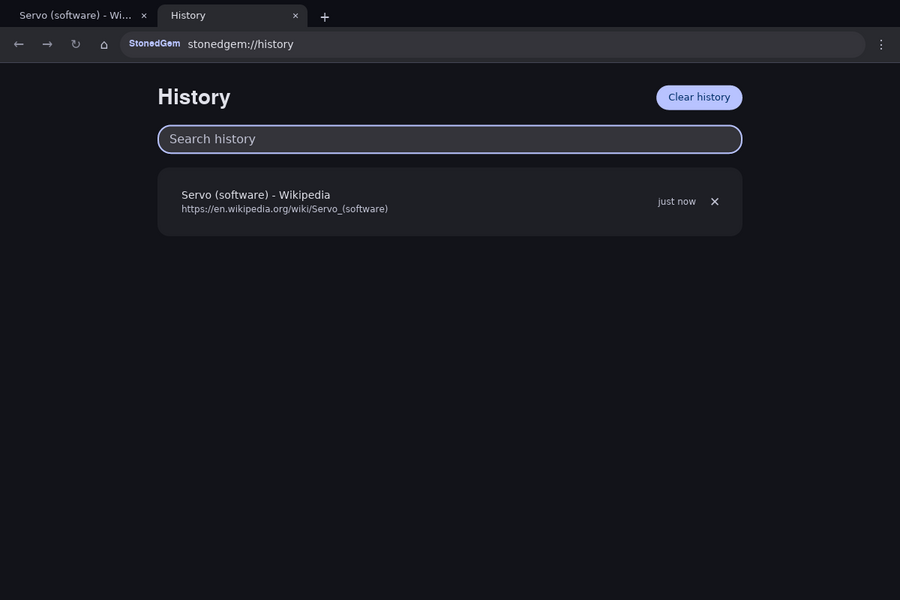
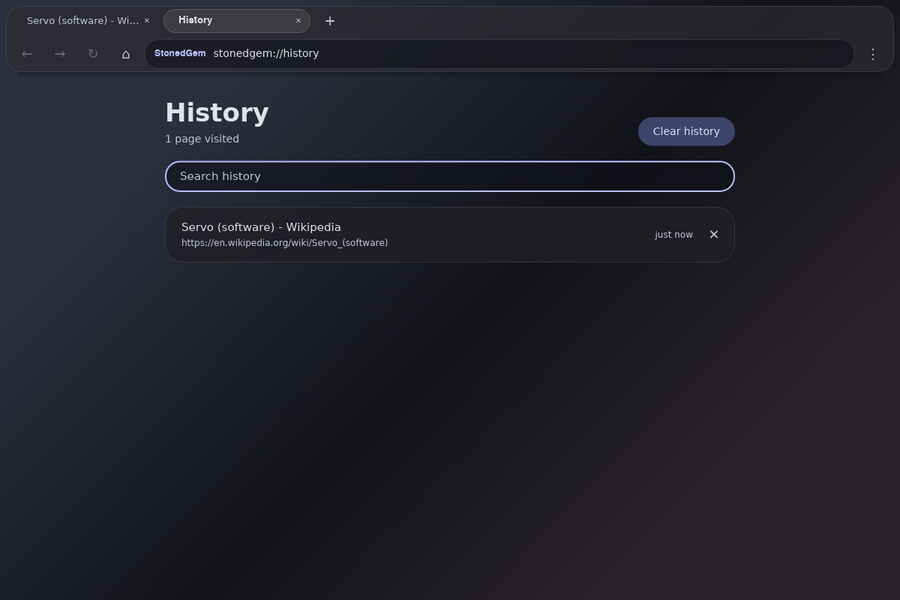
Window design pass and phase 5 done
The redesigned window checked under Xvfb on an optimised build: every page
in dark and light. Iced's CPU renderer repaints drop shadows over nearby
content when redrawing part of the window, so the panel's shadow is now a
gradient strip under it, and cards and the selected tab are raised by tone
and a light edge; popups keep their shadow. The check script now clicks
a link on a known page for the right-click/download step and the new
places of the controls. Focus: Ctrl+F takes focus off the address bar at
once, and the deferred focus no longer selects what's already typed.

Phase 5 marked done in MIGRATION.md; DESIGN.md notes the shadow rule;
screenshots updated (page, find, menu, History, Settings dark/light,
right-click menu, Downloads).

Claude-Session: https://claude.ai/code/session_01MJTKW6Ep4svEtEcpjWzyxg

Changed region(s): [[0.0, 0.0, 0.9956, 0.78], [0.7156, 0.39, 0.7778, 0.42]]

diff --git a/crates/stonedgem-chrome/src/ui.rs b/crates/stonedgem-chrome/src/ui.rs
@@ -84,25 +84,41 @@ fn glass(p: Palette, r: f32) -> container::Style {
     container::Style {
         background: Some(Background::Color(alpha(p.surface_high, if p.dark { 0.72 } else { 0.74 }))),
         border: Border { radius: radius(r), width: 1.0, color: highlight(p) },
-        shadow: shadow(10.0, 30.0, if p.dark { 0.30 } else { 0.12 }),
         ..Default::default()
     }
 }
 
+/// The panel's soft "contact shadow": a gradient strip in the gap under it.
+/// (A real drop shadow gets repainted over the panel by Iced's CPU renderer
+/// when it redraws part of the window.)
+fn contact_shadow(p: Palette) -> container::Style {
+    let g = Linear::new(std::f32::consts::PI)
+        .add_stop(0.0, alpha(Color::BLACK, if p.dark { 0.28 } else { 0.10 }))
+        .add_stop(1.0, alpha(Color::BLACK, 0.0));
+    container::Style {
+        background: Some(Background::Gradient(Gradient::Linear(g))),
+        border: Border { radius: Radius { top_left: 0.0, top_right: 0.0, bottom_right: 12.0, bottom_left: 12.0 }, ..Default::default() },
+        ..Default::default()
+    }
+}
+
+/// Softly raised: a lighter tone and a light edge. (No drop shadow: Iced's
+/// CPU renderer smears small shadows inside a row across the whole row.)
 fn raised(p: Palette, r: f32) -> container::Style {
     container::Style {
-        background: Some(Background::Color(p.surface_highest)),
-        border: Border { radius: radius(r), width: 1.0, color: highlight(p) },
-        shadow: shadow(3.0, 10.0, if p.dark { 0.28 } else { 0.10 }),
+        background: Some(Background::Color(if p.dark { mix(p.surface_highest, Color::WHITE, 0.04) } else { mix(p.surface_highest, Color::WHITE, 0.55) })),
+        border: Border { radius: radius(r), width: 1.0, color: if p.dark { alpha(Color::WHITE, 0.16) } else { alpha(p.outline_variant, 0.9) } },
         ..Default::default()
     }
 }
 
+/// Cards inside scrolling pages: raised by tone and a light edge only.
+/// (No shadow: Iced's CPU renderer doesn't clip shadows to the scroll
+/// area, so they would spill over the panel.)
 fn card_style(p: Palette) -> container::Style {
     container::Style {
         background: Some(Background::Color(alpha(p.surface_container, if p.dark { 0.82 } else { 0.86 }))),
         border: Border { radius: radius(24.0), width: 1.0, color: highlight(p) },
-        shadow: shadow(6.0, 22.0, if p.dark { 0.25 } else { 0.08 }),
         ..Default::default()
     }
 }
@@ -228,8 +244,13 @@ pub fn view(b: &Browser) -> Element<'_, Message> {
     if b.find.is_some() {
         panel = panel.push(find_bar(b));
     }
-    let panel = container(container(panel).padding(Padding { top: 0.0, right: 8.0, bottom: 0.0, left: 8.0 }).style(move |_: &Theme| glass(p, 22.0)))
-        .padding(PANEL_MARGIN);
+    let glass_panel = container(panel).padding(Padding { top: 0.0, right: 8.0, bottom: 0.0, left: 8.0 }).style(move |_: &Theme| glass(p, 22.0));
+    let under = container(container(space()).width(Length::Fill).height(PANEL_MARGIN).style(move |_: &Theme| contact_shadow(p)))
+        .padding(Padding { top: 0.0, right: 24.0, bottom: 0.0, left: 24.0 });
+    let panel = column![
+        container(glass_panel).padding(Padding { top: PANEL_MARGIN, right: PANEL_MARGIN, bottom: 0.0, left: PANEL_MARGIN }),
+        under
+    ];
 
     let main = column![panel, content(b)];
     let base = container(main).width(Length::Fill).height(Length::Fill).style(move |_: &Theme| backdrop(p));
@@ -670,7 +691,6 @@ fn settings(b: &Browser) -> Element<'_, Message> {
                     background: Some(Background::Color(if st == button::Status::Hovered { mix(c, Color::WHITE, 0.12) } else { c })),
                     text_color: Palette::new(hex, p.dark).on_primary,
                     border: Border { radius: radius(17.0), width: if chosen { 2.0 } else { 1.0 }, color: if chosen { p.on_surface } else { highlight(p) } },
-                    shadow: shadow(2.0, 6.0, 0.25),
                     ..Default::default()
                 }),
         );

diff --git a/docs/MIGRATION.md b/docs/MIGRATION.md
@@ -57,39 +57,26 @@ app opens a window, loads pages, routes every request through
 measure site compatibility on a fixed list of sites before going further;
 if it's too poor, WPE WebKit is evaluated against the same list.
 
-## Phase 5 — Iced chrome (window, menu, History, Bookmarks, Settings, Find ✅)
+## Phase 5 — Iced chrome ✅
 
-`stonedgem-chrome` builds `stonedgem-browser`, drawn entirely with Iced in
-OyNIx's Material 3 colours (`stonedgem-theme`, light or dark, six accents):
+`stonedgem-chrome` builds `stonedgem-browser` (and, run as `oynix-next`,
+**OyNIx Next**, with its own profile), drawn entirely with Iced to
+[DESIGN.md](DESIGN.md): Material 3 colour roles from `stonedgem-theme`, a
+floating translucent panel over a gradient backdrop, raised/inset touches,
+40 px targets, light and dark, six accents.
 
-- tabs, an address pill (`stonedgem-url`: addresses, searches, `!bangs`;
-  "Not secure" on plain http), back/forward/reload/home, a ☆ bookmark star,
-  the count of blocked requests and a ⋮ menu;
-- the page: Servo's frames by readback, with mouse, wheel and keys;
-- **History** (`stonedgem://history`, Ctrl+H): visits recorded by
-  `stonedgem-library`, searchable, removable, clearable;
-- **Bookmarks** (`stonedgem://bookmarks`, Ctrl+Shift+O, Ctrl+D to add);
-- **Settings** (`stonedgem://settings`, Ctrl+,): dark/light, accent colour,
-  search engine, home page, ad/tracker blocking and element hiding; saved
-  in the profile as `browser.json`;
-- **Find in page** (Ctrl+F): "3 of 58", ↑/↓, highlights cleared on close.
+- Tabs, address capsule (`stonedgem-url`), back/forward/reload/home, ☆,
+  blocked count, zoom badge, downloads button, ⋮ menu.
+- Pages: Servo frames by readback; mouse, wheel, keys; **right-click menu**
+  (links, images, selection); **zoom** (Ctrl+= / − / 0).
+- **History**, **Bookmarks**, **Downloads** (Servo has no downloads; the
+  window fetches them itself) and **Settings** pages, drawn with Iced.
+- **Find in page**; **tabs reopen on start**.
+- **oynix-next package**: `scripts/package-oynix-next.sh`, a .desktop
+  entry, and the *OyNIx Next* workflow (manual or `oynix-next-v*` tags).
 
-Checked under Xvfb with `crates/stonedgem-chrome/xvfb-check.sh`:
-screenshots of [the page](screenshots/browser-wikipedia.png),
-[find](screenshots/browser-find.png), [the menu](screenshots/browser-menu.png),
-[History](screenshots/browser-history.png),
-[Settings](screenshots/browser-settings.png) and
-[Settings, light](screenshots/browser-settings-light.png).
-
-Still to do in this phase: downloads (Servo's download support needs
-checking first), a context menu, zoom, restoring tabs on start, and the
-oynix-next package.
-
-
-`stonedgem-chrome`: window, tabs, address bar (using `stonedgem-url`),
-menus, settings and start page, drawing pages from the engine
-(readback first). Shipped as **oynix-next**, a preview alongside OyNIx,
-not a replacement.
+Checked under Xvfb with `crates/stonedgem-chrome/xvfb-check.sh`, which
+drives every page and takes the screenshots in [screenshots/](screenshots/).
 
 ## Phase 6 — extension runtime and Slint panels
 

diff --git a/docs/DESIGN.md b/docs/DESIGN.md
@@ -20,10 +20,18 @@ It borrows from four references and keeps what works on a desktop browser:
 - **Backdrop:** a linear gradient from the surface toward the primary (≈16 %)
   at the top-left and the tertiary (≈10 %) at the bottom-right.
 - **Glass panel:** surface-container-high at ≈72 % (dark) / 74 % (light),
-  1 px highlight edge (white 10 % dark / 70 % light), shadow 0 10 30 at 30 %.
-- **Raised (neumorphic):** surface-container-highest, highlight edge, shadow 0 3 10 at 25 %.
+  1 px highlight edge (white 10 % dark / 70 % light), and a soft contact
+  shadow in the gap below it.
+- **Raised (neumorphic):** a lighter tone than its surroundings and a light edge.
+
 - **Inset:** surface-container-lowest at 55 %, 1 px outline-variant edge.
 - **Popups:** surface-container at 94 %, highlight edge, shadow 0 16 40 at 45 %.
+
+In the Iced window, shadows are kept to popups (menus). Iced's CPU
+renderer repaints drop shadows over neighbouring content when it redraws
+part of the window, so the panel's shadow is a gradient strip, and cards
+and the selected tab are raised by tone and edge. OyNIx (Qt Quick) uses a
+real blurred shadow under its panel.
 
 ## Layout (browser window)
 

diff --git a/docs/COMPATIBILITY.md b/docs/COMPATIBILITY.md
@@ -18,7 +18,8 @@ Legend: **Works** · **Planned** (phase in [MIGRATION.md](MIGRATION.md)) ·
 | History, bookmarks, reading list, closed tabs | **Works** (`stonedgem-library`); History and Bookmarks pages in the window; restoring sessions: Planned (5) |
 | Rendering web pages | Spike works headless (`stonedgem-engine`); real-site compatibility not measured yet (4) |
 | Tabs, address bar, start page, menu, settings, find in page | **Works** (`stonedgem-chrome`) |
-| Tree tabs, help, downloads, context menu, zoom | Planned (5) |
+| Downloads, context menu, zoom, reopening tabs | **Works** (`stonedgem-chrome`) |
+| Tree tabs, help | Planned (later) |
 | PDF viewing | Unsupported — Servo has no PDF viewer; needs a PDF renderer |
 | Offline games | Planned (5) — they're native, not web |
 | Built-in updater, AUR | Planned (8) |
